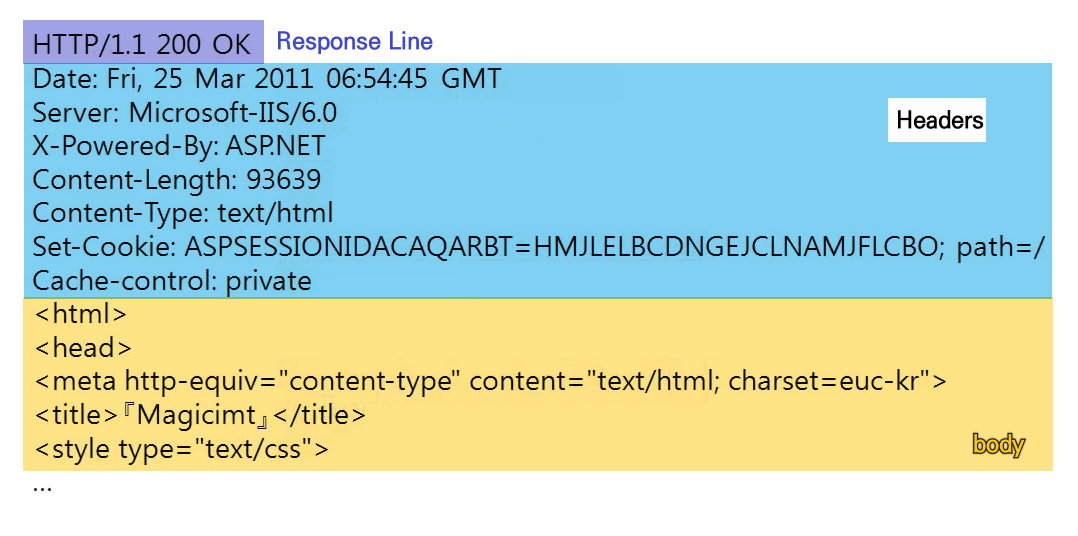
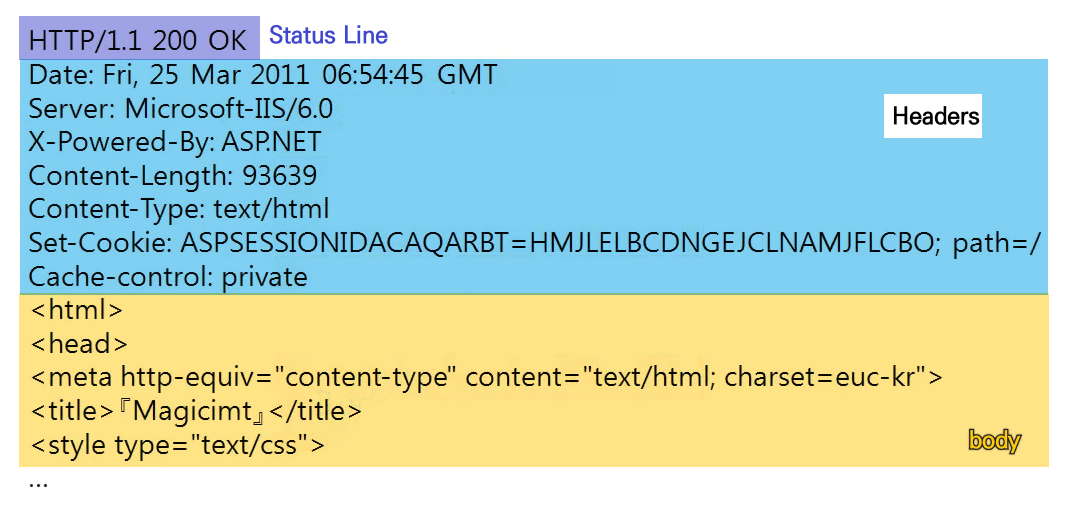
로드밸런싱

Changed region(s): [[0.0, 0.0305, 0.9869, 0.916], [0.8327, 0.1527, 0.9252, 0.2748]]

diff --git a/네트워크/12 로드밸런싱.md b/네트워크/12 로드밸런싱.md
@@ -1,0 +1,89 @@
+# 로드 밸런싱(Load Balancing)
+
+> 둘 이상의 CPU or 저장장치와 같은 컴퓨터 자원들에게 작업을 나누는 것
+
+
+
+## 로드 밸런싱이 필요한 이유
+
+![image-20220612155637108](network/image-20220612155637108.png)
+
+- 수천만명의 Client가 접속해서 많은 트래픽이 발생하고, server 충분히 감당하지 못한다면 결국 멈추게 된다.
+
+- 해결 방법
+
+  ![로드밸런싱_스케일](network/로드밸런싱_스케일.jpg)
+
+  - `Scale-up` : 서버의 하드웨어 성능을 올린다. (CPU i3를 i7으로 업그레이드)
+  - `Scale-out` : 여러대의 서버가 나눠서 일한다. (i3 여러대)
+
+- `Scale-out` 방법의 장점
+
+  - 서버의 하드웨어 항상 비용보다 서버를 한대 추가하는 **비용이 저렴하다.**
+  - 여러대의 서버가 일한다면 **무중단 서비스**를 제공할 수 있다.
+    - `Load Balancer` : 여러 대의 서버에게 균등하게 트래픽을 분산한다.
+
+
+
+## 로드 밸런싱
+
+- 로드 밸런싱은 여러 서버에 부하(Load)를 나누어주는 역할을 한다. 
+
+- Load Balancer를 클라이언트와 서버풀 사이에 두고, 부하가 일어나지 않도록 여러 서버에 분산시켜주는 방식이다.
+  - 서버풀 : Server pool, 분산 네트워크를 구성하는 서버 그룹
+- 서비스를 운영하는 사이트의 규모에 따라 웹 서버를 추가로 증설하면서 로드 밸런서로 관리해주면 웹 서버의 부하를 해결할 수 있다.
+
+### 로드 밸런서가 서버를 선택하는 방식
+
+- 라운드 로빈(Round Robin) : CPU 스케줄링의 라운드 로빈 방식 활용. 서버 목록을 순회한다. 마지막 서버에 요청을 보낸 경우 다시 처음으로 돌아간다. 서버의 성능이 비슷하고 연결 개수가 그리 많지 않은 경우 가장 효과적이다.
+
+  ![image-20220612165446304](network/image-20220612165446304.png)
+
+- Least Connections : 연결 개수가 가장 적은 서버 선택 (트래픽으로 인해 세션이 길어지는 경우 권장). 세션이 언제 끊어질지 모른다는 점에서 단점이 있고, 큰 규모의 서비스에서는 잘 사용하지 않음
+
+  ![image-20220612165421049](network/image-20220612165421049.png)
+
+- IP Hash : 사용자 IP를 해싱하여 분배 (특정 사용자가 항상 같은 서버로 연결되는 것 보장)
+
+  ![image-20220612165554472](network/image-20220612165554472.png)
+
+
+
+### L4 L7 로드밸런서
+
+![L4L7로드밸런서](network/L4L7로드밸런서.png)
+
+- 부하 분산에는 L4(4계층, IP주소) 로드밸런서와 L7(7계층, 프로그램) 로드밸런서가 가장 많이 활용된다.
+  - L4 부터 포트 정보를 바탕으로 분산이 가능하기 때문이다.
+- L4 로드밸런서는 네트트워크 계층이나 전송 계층의 정보를 바탕으로 분산한다. **IP주소, 포트번호, MAC주소, 전송 프로토콜**에 따라 트래픽을 나눌 수 있다.
+- L7 로드밸런서는 응용 계층에서 분산하기 때문에 **HTTP 헤더, 쿠기 등과 같은 사용자의 요청**을 기준으로 특정 서버에 트래픽을 분산할 수 있다. 
+
+
+
+### 로드 밸런서 장애 대비
+
+서버를 분배하는 로드 밸런서에 문제가 생길 수 있기 때문에 로드 밸런서를 **이중화**하여 대비한다.
+
+![image-20220612160935377](network/image-20220612160935377.png)
+
+> Active 상태와 Passive 상태
+
+![load_balancing_error](network/load_balancing_error.gif)
+
+- 이중화된 Load Balancer들은 서로 Health Check를 합니다.
+- Main Load Balancer가 동작하지 않으면 가상IP(VIP, Virtual IP, 사설 IP)는 여분의 Load Balancer로 변경됩니다.
+- 여분의 Load Balancer로 운영하게 됩니다.
+
+
+
+
+
+<br>
+
+#### [참고자료]
+
+- [로드 밸런서란? - 거의 내용 동일 (한글)](https://www.educative.io/courses/grokking-the-system-design-interview/3jEwl04BL7Q)
+- [로드 밸런서의 개념과 특징 - 추가적인 내용 + 설명 잘 되어있음 (한글)](https://m.post.naver.com/viewer/postView.naver?volumeNo=27046347&memberNo=2521903)
+- [Load Balacning(영어)](https://nesoy.github.io/articles/2018-06/Load-Balancer)
+- [해시넷(한글)](http://wiki.hash.kr/index.php/%EB%A1%9C%EB%93%9C%EB%B0%B8%EB%9F%B0%EC%8B%B1)
+- [어라운드허브 스튜디오 - 로드밸런싱이란?(한글)](https://www.youtube.com/watch?v=kYipnodgi2I&ab_channel=%EC%96%B4%EB%9D%BC%EC%9A%B4%EB%93%9C%ED%97%88%EB%B8%8C%EC%8A%A4%ED%8A%9C%EB%94%94%EC%98%A4-AroundHubStudio)

diff --git a/네트워크/11 웹(www)을 이용해 데이터 주고받기.md b/네트워크/11 웹(www)을 이용해 데이터 주고받기.md
@@ -97,7 +97,7 @@
 
 ![image-20220605011124489](network/image-20220605011124489.png)
 
-### Response Line
+### Status Line
 
 ![image-20220605000129494](network/image-20220605000129494.png)
 
@@ -116,7 +116,7 @@
 | 405      | `Method Not Allowed`    | 요청한 메소드는 서버에서 알고 있지만, 제거되었고 사용할 수 없습니다. |
 | 409      | `Conflict`              | 요청이 현재 서버의 상태와 충돌될 때 보냅니다. (주로 중복인 경우 사용함) |
 | 500      | `Internal Server Error` | 서버가 처리 방법을 모르는 상황이 발생했습니다. (주로 Null Pointer Exception.. 백엔드 나와) |
-| 502      | `Bad Gateway`           | 서버가 게이트웨이나 프록시 서버 역할을 하면서 업스트림 서버로부터 유효하지 않은 응답을 받았다는 뜻이다. Nginx를 사용한다면 Nginx로그를 뜯어봐라<br />![How to Fix Nginx 502 Bad Gateway Error on PHP-FPM](https://ibcomputing.com/wp-content/uploads/2018/02/502-bad-gateway-nginx-ubuntu-e1517575959554.png) |
+| 502      | `Bad Gateway`           | 서버가 게이트웨이나 프록시 서버 역할을 하면서 업스트림 서버로부터 유효하지 않은 응답을 받았다는 뜻이다. Nginx를 사용한다면 Nginx 로그를 뜯어봐라<br />![How to Fix Nginx 502 Bad Gateway Error on PHP-FPM](https://ibcomputing.com/wp-content/uploads/2018/02/502-bad-gateway-nginx-ubuntu-e1517575959554.png) |
 | 503      | `Service Unavailable`   | 최대 Session 수를 초과했을때. 과부화 걸림                    |
 
 <br>
